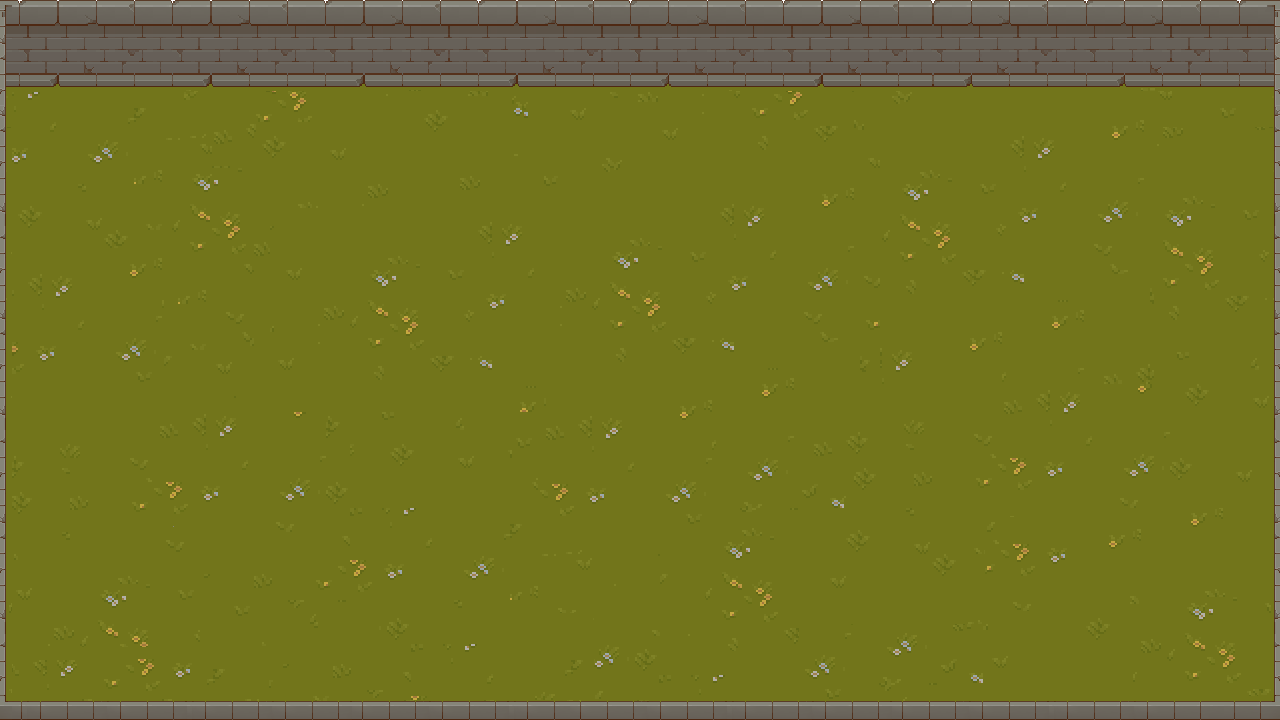
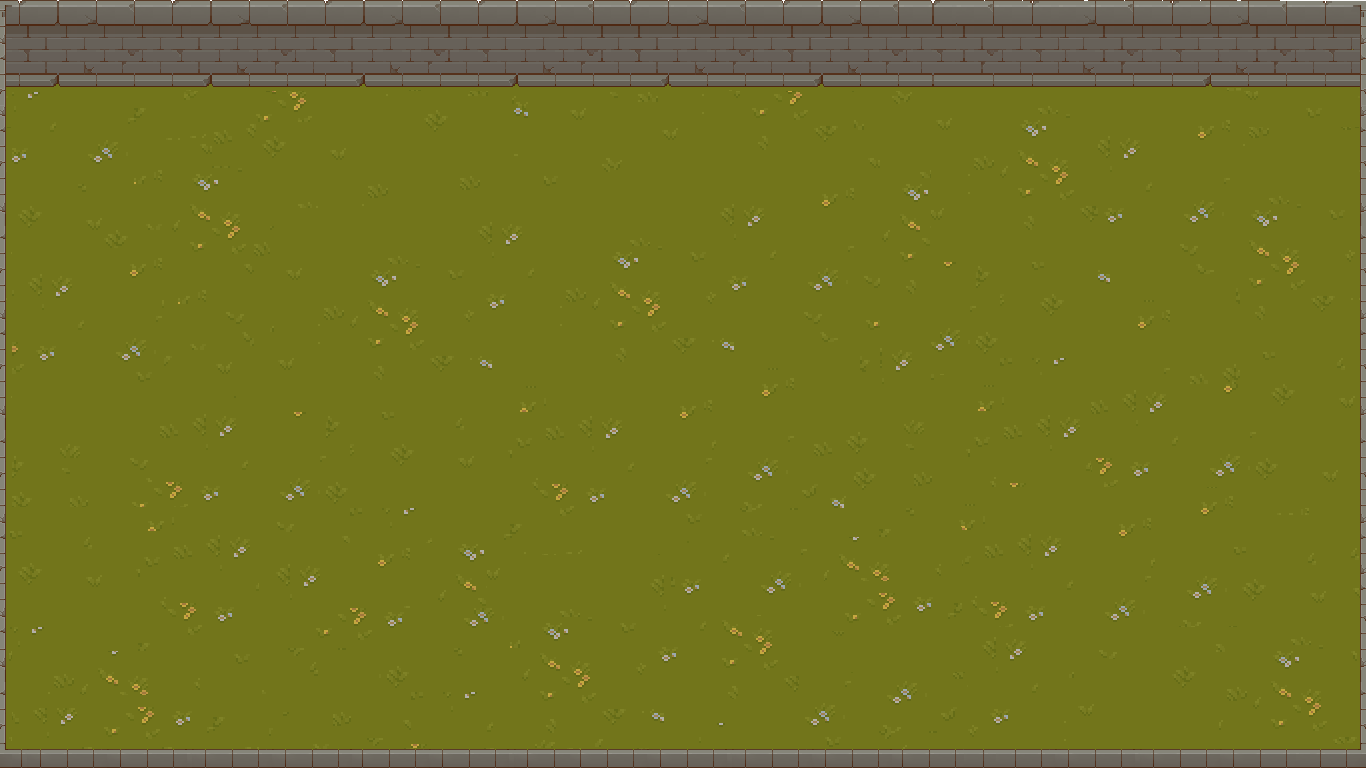
Add files via upload

diff --git a/mystic swords/menu.py b/mystic swords/menu.py
@@ -1,8 +1,8 @@
-#import cv2
+import cv2
 import pygame
 
 
-screen = pygame.display.set_mode((1280,720),pygame.RESIZABLE)
+screen = pygame.display.set_mode((1366,768),pygame.RESIZABLE)
 
 def menu_music():
     pygame.mixer.init()
@@ -53,6 +53,12 @@ def menu():
 
     play = pygame.image.load('menu\play.png')
 
+    how_to_play = pygame.image.load('menu\how to play.png')
+
+    settings = pygame.image.load('menu\settings.png')
+    
+    highscore = pygame.image.load('menu\highscore.png')
+    
     singleplayer = pygame.image.load('menu\singleplayer.png')
 
     multiplayer = pygame.image.load('menu\multiplayer.png')
@@ -63,7 +69,8 @@ def menu():
 
     sword_left = pygame.image.load('menu\sword left.png')
     sword_right = pygame.image.load('menu\sword right.png')
-    menu_dict={"play":True,"singleplayer":False,"multiplayer":False,"create":False,"join":False,"settings":False}
+    menu_dict={"play":True,"settings":True,"how to play":True,"highscore":True,"singleplayer":False,"multiplayer":False,"create":False,"join":False}
+
     
     while True:
         for event in pygame.event.get():
@@ -74,7 +81,10 @@ def menu():
         menu_bg(mouse_x,mouse_y)
         screen_x,screen_y=screen.get_size()
         
-        play_rect = pygame.Rect(screen_x/2-115,screen_y/2-49,230,98)
+        play_rect = pygame.Rect(screen_x/2-115,screen_y/2-49-270,230,98)
+        how_to_play_rect = pygame.Rect(screen_x/2-115,screen_y/2-49-85,230,98)
+        settings_rect = pygame.Rect(screen_x/2-115,screen_y/2-49+85,230,98)
+        highscore_rect = pygame.Rect(screen_x/2-115,screen_y/2-49+270,230,98)
 
         singleplayer_rect = pygame.Rect(screen_x/2-337,screen_y/2-149,674,98)
         multiplayer_rect = pygame.Rect(screen_x/2-325,screen_y/2+49,650,98)
@@ -83,18 +93,59 @@ def menu():
         join_rect = pygame.Rect(screen_x/2-232,screen_y/2+49,464,98)
         
         if menu_dict["play"]==True:
-            screen.blit(play,(screen_x/2-115,screen_y/2-49))
+            screen.blit(play,(screen_x/2-115,screen_y/2-49-270))
 
         if play_rect.collidepoint(mouse_x,mouse_y) and menu_dict["play"] == True:
-            screen.blit(sword_left,(screen_x/2-115-169,screen_y/2-42))
-            screen.blit(sword_right,(screen_x/2+115,screen_y/2-42))
+            screen.blit(sword_left,(screen_x/2-115-169,screen_y/2-42-270))
+            screen.blit(sword_right,(screen_x/2+115,screen_y/2-42-270))
             pygame.display.update()
             if event.type == pygame.MOUSEBUTTONDOWN:
-                menu_dict["play"]=False
+                return ["singleplayer"]
+                '''menu_dict["play"]=False
                 menu_dict["singleplayer"]=True
-                menu_dict["multiplayer"]=True
+                menu_dict["multiplayer"]=True'''
+        if menu_dict["settings"]==True:
+            screen.blit(settings,(screen_x/2-231,screen_y/2-49+85))
 
-        if menu_dict["singleplayer"]==True:
+        if settings_rect.collidepoint(mouse_x,mouse_y) and menu_dict["settings"] == True:
+            screen.blit(sword_left,(screen_x/2-231-169,screen_y/2-42+85))
+            screen.blit(sword_right,(screen_x/2+231,screen_y/2-42+85))
+            pygame.display.update()
+            if event.type == pygame.MOUSEBUTTONDOWN:
+                menu_dict["play"] = False
+                menu_dict["settings"] = False
+                menu_dict["highscore"] = False
+                menu_dict["how to play"] = False
+        
+        if menu_dict["how to play"]==True:
+            screen.blit(how_to_play,(screen_x/2-287,screen_y/2-49-85))
+
+        if how_to_play_rect.collidepoint(mouse_x,mouse_y) and menu_dict["how to play"] == True:
+            screen.blit(sword_left,(screen_x/2-287-169,screen_y/2-42-85))
+            screen.blit(sword_right,(screen_x/2+287,screen_y/2-42-85))
+            pygame.display.update()
+            if event.type == pygame.MOUSEBUTTONDOWN:
+                menu_dict["play"] = False
+                menu_dict["settings"] = False
+                menu_dict["highscore"] = False
+                menu_dict["how to play"] = False
+        
+        if menu_dict["highscore"]==True:
+            screen.blit(highscore,(screen_x/2-252,screen_y/2-49+270))
+
+        if highscore_rect.collidepoint(mouse_x,mouse_y) and menu_dict["highscore"] == True:
+            screen.blit(sword_left,(screen_x/2-252-169,screen_y/2-42+270))
+            screen.blit(sword_right,(screen_x/2+252,screen_y/2-42+270))
+            pygame.display.update()
+            if event.type == pygame.MOUSEBUTTONDOWN:
+                menu_dict["play"] = False
+                menu_dict["settings"] = False
+                menu_dict["highscore"] = False
+                menu_dict["how to play"] = False
+
+        
+
+        '''if menu_dict["singleplayer"]==True:
             screen.blit(singleplayer,(screen_x/2-337,screen_y/2-149))
         
         if singleplayer_rect.collidepoint(mouse_x,mouse_y) and menu_dict["singleplayer"] == True:
@@ -136,7 +187,7 @@ def menu():
             screen.blit(sword_right,(screen_x/2+232,screen_y/2+52))
             pygame.display.update()
             if event !=None and event.type == pygame.MOUSEBUTTONDOWN:
-                return ["join"]
+                return ["join"]'''
         
 
 
@@ -145,7 +196,7 @@ def menu():
 
 def menu_bg(mouse_x,mouse_y):
 
-    move_menu_frame = pygame.image.load('gvgh\menu main2.png')
+    move_menu_frame = pygame.image.load('menu\menu main2.png')
 
 
     screen_x,screen_y=screen.get_size()

diff --git a/mystic swords/singleplayergame.py b/mystic swords/singleplayergame.py
@@ -3,32 +3,47 @@ import pygame
 import time
 
 keylist=[]
-playerdata=[100,100,"down",1]
+playerdata=[100,100,"down",2]
 
 map = pygame.image.load('map/map.png')
 
 
-up1 = pygame.image.load('player/up 1.jpg')
-up2 = pygame.image.load('player/up 2.jpg')
-up3 = pygame.image.load('player/up 3.jpg')
+up1 = pygame.image.load('player/up 1.png')
+up2 = pygame.image.load('player/up 2.png')
+up3 = pygame.image.load('player/up 3.png')
 
-down1 = pygame.image.load('player/down 1.jpg')
-down2 = pygame.image.load('player/down 2.jpg')
-down3 = pygame.image.load('player/down 3.jpg')
+down1 = pygame.image.load('player/down 1.png')
+down2 = pygame.image.load('player/down 2.png')
+down3 = pygame.image.load('player/down 3.png')
 
-right1 = pygame.image.load('player/right 1.jpg')
-right2 = pygame.image.load('player/right 2.jpg')
-right3 = pygame.image.load('player/right 3.jpg')
+right1 = pygame.image.load('player/right 1.png')
+right2 = pygame.image.load('player/right 2.png')
+right3 = pygame.image.load('player/right 3.png')
 
-left1 = pygame.image.load('player/left 1.jpg')
-left2 = pygame.image.load('player/left 2.jpg')
-left3 = pygame.image.load('player/left 3.jpg')
+left1 = pygame.image.load('player/left 1.png')
+left2 = pygame.image.load('player/left 2.png')
+left3 = pygame.image.load('player/left 3.png')
 
 rightlist = [right1,right2,right3]
 leftlist = [left1,left2,left3]
 uplist = [up1,up2,up3]
 downlist = [down1,down2,down3]
 
+increase = 50
+
+
+
+for i in range(0,3):
+    
+    rightlist[i] = pygame.transform.scale(rightlist[i], (increase,increase))
+    rightlist[i].set_colorkey((255,255,255))
+    uplist[i] = pygame.transform.scale(uplist[i], (increase,increase))
+    uplist[i].set_colorkey((255,255,255))
+    downlist[i] = pygame.transform.scale(downlist[i], (increase,increase))
+    downlist[i].set_colorkey((255,255,255))
+    leftlist[i] = pygame.transform.scale(leftlist[i], (increase,increase))
+    leftlist[i].set_colorkey((255,255,255))
+    
 moveno = [0,0,0,0]
 
 pygame.init()
@@ -157,13 +172,13 @@ def movement(pressedlist):
 
     
     if xyposreturn[0] > 1275 and xyposreturn[1] > 715:
-        emptret()
+        return emptret()
     elif xyposreturn[0] < 10 and xyposreturn[1] < 30:
-        emptret()
+        return emptret()
     elif xyposreturn[0] > 1275 and xyposreturn[1] < 30:
-        emptret()
+        return emptret()
     elif xyposreturn[0] < 10 and xyposreturn[1] > 715:
-        emptret()
+        return emptret()
     elif xyposreturn[0] > 1275:
         return playerdata[0],xyposreturn[1]
     elif xyposreturn[0] < 10:
@@ -179,13 +194,14 @@ def movement(pressedlist):
         return xyposreturn
 
 def main(screen):
-    pressedlist=[]
+    pressedlist = []
     while True:
         for event in pygame.event.get():
             pressedlist = keysheld(pressedlist,event)
         print(playerdata)
         playerdata[0],playerdata[1] = movement(pressedlist)
         screen.blit(map,(0,0))
+        print(downlist)
         if playerdata[2] == "right":
             screen.blit(rightlist[moveno[0]],(playerdata[0],playerdata[1]))
         if playerdata[2] == "left":
@@ -194,6 +210,6 @@ def main(screen):
             screen.blit(uplist[moveno[2]],(playerdata[0],playerdata[1]))
         if playerdata[2] == "down":
             screen.blit(downlist[moveno[3]],(playerdata[0],playerdata[1]))
-        time.sleep(0.02)
+        time.sleep(0.04)
 
         pygame.display.update()

diff --git a/mystic swords/main.py b/mystic swords/main.py
@@ -10,13 +10,13 @@ import singleplayergame
 pygame.display.set_caption("Mystic Sword")
 
 
-screen = pygame.display.set_mode((1280,720),pygame.RESIZABLE)
+screen = pygame.display.set_mode((1366,768),pygame.RESIZABLE)
 
 stable = pygame.image.load('player\stable 1.png')
 
 keylist=[]
 
-p2=["100","97","115","119"]
+p2=["100","97","119","115"]
 
 menu_info=menu.menu()
 pygame.display.update()
@@ -37,7 +37,7 @@ def servermain():
     os.startfile("servermain.py")
 
 if menu_info[0] == "singleplayer":
-    singleplayergame.keys(["100","97","119","115"])
+    singleplayergame.keys(p2)
     singleplayergame.main(screen)
 
 elif menu_info[0] == "create":
